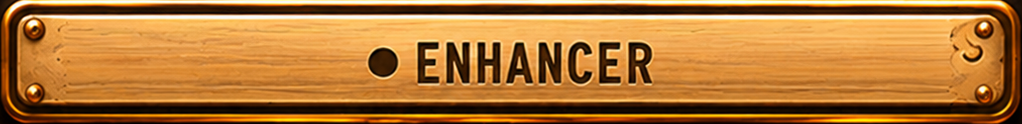
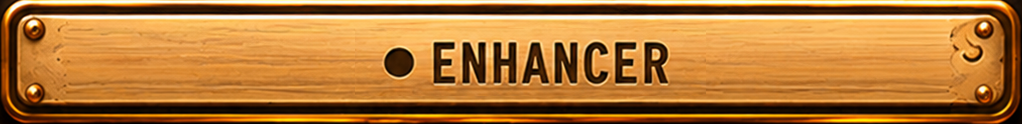
fix: ENHANCER plakasinda yazi (nokta + yazi) 16 px saga alinip ortalandi; plaka ayni

Changed region(s): [[0.3337, 0.3145, 0.6673, 0.7258], [0.4247, 0.7258, 0.455, 0.75]]

diff --git a/design/tools/studio_enh.py b/design/tools/studio_enh.py
@@ -7,3 +7,14 @@ boxes = {'main': (62, 518, 1084, 642), 'analog': (62, 696, 388, 824), 'vinyl': (
 for state in ('off', 'on'):
     im = Image.open(f'{ref}/enh-{state}-ref.png').convert('RGB')
     for name, b in boxes.items(): im.crop(b).save(f'{out}/sk-st-enh-{name}-{state}.png', optimize=True)
+# Centre the ENHANCER label (dot + text) on its plate: shift it right, refill the gap with the plain plate beside it.
+import numpy as np
+SHIFT = 16
+for state in ('off', 'on'):
+    p = f'{out}/sk-st-enh-main-{state}.png'
+    a = np.asarray(Image.open(p).convert('RGB')).copy()
+    y0, y1, x0, x1 = 28, 96, 355, 690
+    lab = a[y0:y1, x0:x1].copy()
+    a[y0:y1, x0:x0 + SHIFT] = a[y0:y1, x0 - SHIFT:x0]
+    a[y0:y1, x0 + SHIFT:x1 + SHIFT] = lab
+    Image.fromarray(a).save(p, optimize=True)
